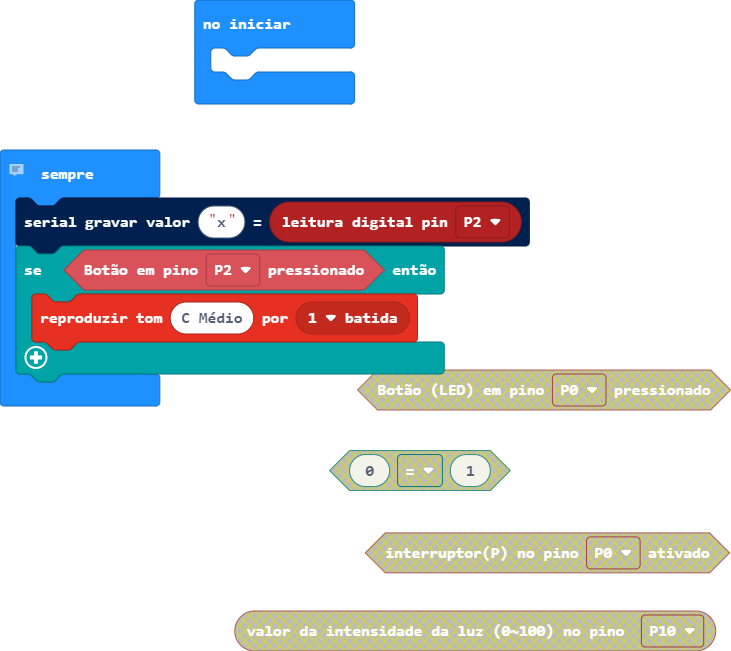
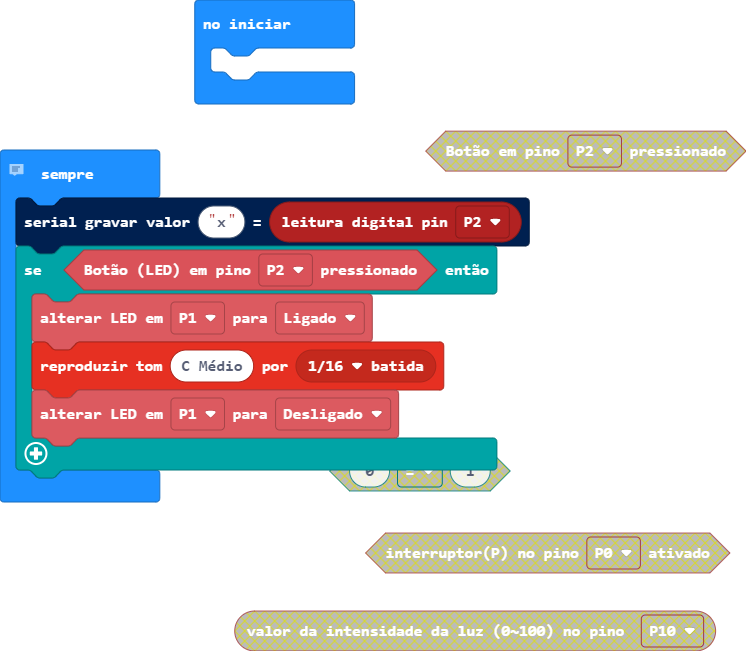
Update main.blocks, _locales/pt-BR/hackbit-strings.json, main.ts, hackbit.ts

diff --git a/main.ts b/main.ts
@@ -1,7 +1,9 @@
 // www.hackids.com.br
 basic.forever(function () {
     serial.writeValue("x", pins.digitalReadPin(DigitalPin.P2))
-    if (hackbit.buttonState(DigitalPin.P2)) {
-        music.playTone(262, music.beat(BeatFraction.Whole))
+    if (hackbit.buttonLEDState(DigitalPin.P2)) {
+        hackbit.ledState(DigitalPin.P1, hackbit.OnOff.On)
+        music.playTone(262, music.beat(BeatFraction.Sixteenth))
+        hackbit.ledState(DigitalPin.P1, hackbit.OnOff.Off)
     }
 })

diff --git a/hackbit.ts b/hackbit.ts
@@ -910,7 +910,7 @@ namespace hackbit {
      * Get button LED state [0-1]
     */
     //% blockId=hackbitButtonLEDRead
-    //% block="button pin LED |%pin| is pressed"
+    //% block="button pin LED |%pin| is pressed (y)"
     //% pin.fieldEditor="gridpicker"
     //% pin.fieldOptions.columns=3
     //% subcategory=Input  group="Digital" 
